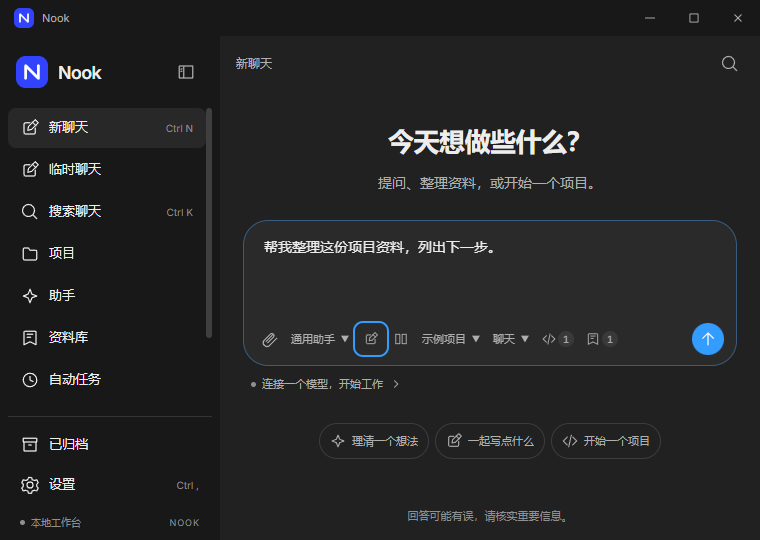
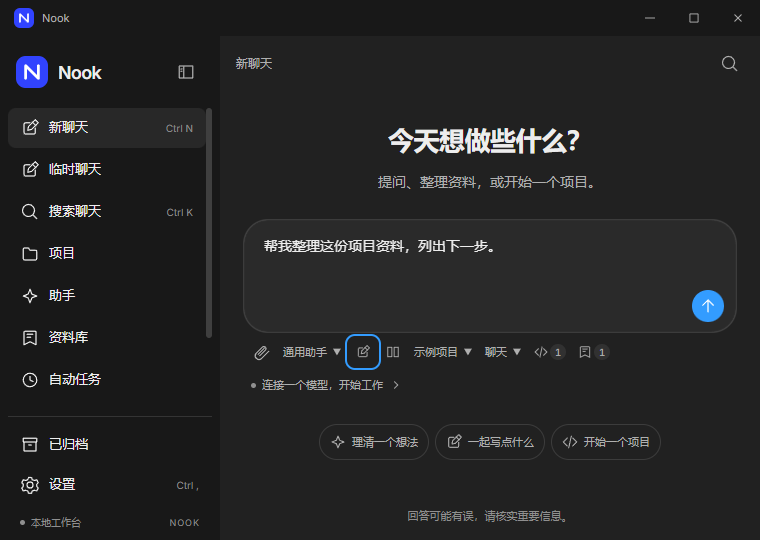
feat(ui): 完成单行胶囊输入与自适应展开

diff --git a/workbench/components/composer.tsx b/workbench/components/composer.tsx
@@ -37,6 +37,7 @@ export function Composer(props: Props) {
   const [prompts, setPrompts] = useState(false);
   const [importing, setImporting] = useState(false);
   const [dragging, setDragging] = useState(false);
+  const [singleLine, setSingleLine] = useState(true);
   const mounted = useRef(true);
   const importContext = useRef(props.importContext);
   importContext.current = props.importContext;
@@ -50,7 +51,13 @@ export function Composer(props: Props) {
   useLayoutEffect(() => {
     const node = textarea.current;
     if (!node) return;
-    const resize = () => { node.style.height = 'auto'; node.style.height = `${node.scrollHeight}px`; };
+    const resize = () => {
+      node.style.minHeight = '0'; node.style.height = '0';
+      const height = node.scrollHeight;
+      const style = getComputedStyle(node);
+      setSingleLine(height <= Number.parseFloat(style.lineHeight) + Number.parseFloat(style.paddingTop) + Number.parseFloat(style.paddingBottom) + 1);
+      node.style.removeProperty('min-height'); node.style.height = `${height}px`;
+    };
     resize();
     let width = node.clientWidth;
     const observer = new ResizeObserver(() => {
@@ -60,7 +67,7 @@ export function Composer(props: Props) {
     });
     observer.observe(node);
     return () => observer.disconnect();
-  }, [props.text]);
+  }, [props.text, singleLine, attachments.length]);
   async function send() {
     if (!props.text.trim() || busy || props.running) return;
     if (!provider || !props.model) { props.onConfigure(); return; }
@@ -82,11 +89,15 @@ export function Composer(props: Props) {
     finally { if (mounted.current) setImporting(false); }
   }
   return <div className="composer-wrap">
-    <div className="composer" data-composer-utility-bar-variant={props.running ? 'thread' : 'home'} data-composer-rows="stacked" data-composer-drag-active={dragging || undefined} aria-busy={importing} onDragEnter={(event) => { if (!event.dataTransfer.types.includes('Files')) return; event.preventDefault(); dragDepth.current++; setDragging(true); }} onDragOver={(event) => { if (event.dataTransfer.types.includes('Files')) { event.preventDefault(); event.dataTransfer.dropEffect = busy ? 'none' : 'copy'; } }} onDragLeave={(event) => { if (!event.dataTransfer.types.includes('Files')) return; if (--dragDepth.current <= 0) { dragDepth.current = 0; setDragging(false); } }} onDrop={(event) => { if (!event.dataTransfer.types.includes('Files')) return; event.preventDefault(); dragDepth.current = 0; setDragging(false); void attach([...event.dataTransfer.files]); }}>
+    <div className="composer" data-composer-utility-bar-variant={props.running ? 'thread' : 'home'} data-composer-rows={singleLine && !attachments.length ? 'single' : 'stacked'} data-composer-drag-active={dragging || undefined} aria-busy={importing} onDragEnter={(event) => { if (!event.dataTransfer.types.includes('Files')) return; event.preventDefault(); dragDepth.current++; setDragging(true); }} onDragOver={(event) => { if (event.dataTransfer.types.includes('Files')) { event.preventDefault(); event.dataTransfer.dropEffect = busy ? 'none' : 'copy'; } }} onDragLeave={(event) => { if (!event.dataTransfer.types.includes('Files')) return; if (--dragDepth.current <= 0) { dragDepth.current = 0; setDragging(false); } }} onDrop={(event) => { if (!event.dataTransfer.types.includes('Files')) return; event.preventDefault(); dragDepth.current = 0; setDragging(false); void attach([...event.dataTransfer.files]); }}>
       {attachments.length > 0 && <AttachmentList files={attachments} disabled={busy} onRemove={(id) => props.onAttachments(attachments.filter((item) => item.id !== id))} />}
-      <textarea ref={textarea} aria-label="消息" placeholder={dragging ? '松开以添加附件' : '有什么想一起完成的？'} maxLength={256_000} disabled={submitting} value={props.text} onChange={(event) => props.onText(event.target.value)} onPaste={(event) => { const files = [...event.clipboardData.files].filter((file) => file.type.startsWith('image/')); if (files.length) { event.preventDefault(); void attach(files); } }} onKeyDown={(event) => {
+      <div className="composer-entry">
+      <textarea rows={1} ref={textarea} aria-label="消息" placeholder={dragging ? '松开以添加附件' : '有什么想一起完成的？'} maxLength={256_000} disabled={submitting} value={props.text} onChange={(event) => props.onText(event.target.value)} onPaste={(event) => { const files = [...event.clipboardData.files].filter((file) => file.type.startsWith('image/')); if (files.length) { event.preventDefault(); void attach(files); } }} onKeyDown={(event) => {
         if (event.key === 'Enter' && !event.shiftKey && !event.nativeEvent.isComposing && (props.enterToSend || event.ctrlKey || event.metaKey)) { event.preventDefault(); void send(); }
       }} />
+        {props.running ? <Button className="send-button" aria-label="停止生成" onClick={props.onStop}><Glyph name="stop" size={16} /></Button> : <Button className="send-button" tone="solid" aria-label="发送消息" disabled={!props.text.trim() || busy} onClick={() => { void send(); }}><Glyph name="send" size={18} /></Button>}
+      </div>
+    </div>
       <div className="composer-toolbar">
         <div className="composer-tools" onFocusCapture={(event) => { if (event.currentTarget.scrollWidth > event.currentTarget.clientWidth && event.target instanceof HTMLElement) event.target.scrollIntoView({ block: 'nearest', inline: 'nearest', behavior: 'auto' }); }}><IconButton icon="attach" label="添加附件" disabled={busy} onClick={() => { void attach(); }} />
           <Select aria-label="选择助手" disabled={submitting} value={props.assistantId} onChange={(event) => props.onAssistant(event.target.value)}><option value="">默认助手</option>{props.assistants.map((assistant) => <option key={assistant.id} value={assistant.id}>{assistant.name}</option>)}</Select>
@@ -98,9 +109,7 @@ export function Composer(props: Props) {
           {(props.servers.length > 0 || props.skills.length > 0 || props.plugins.length > 0) && <Button className="composer-extension-button composer-action" aria-label="选择工具与技能" title={`工具与技能${count ? ` · 已选 ${count}` : ''}`} disabled={props.running || submitting} onClick={() => setExtensions(true)}><Glyph name="code" size={14} /><span className="composer-tool-label">工具与技能</span>{count > 0 && <span className="composer-count">{count}</span>}</Button>}
           {(props.hasNotes || props.knowledgeCollections.length > 0) && <Button className="composer-extension-button composer-action" aria-label="选择资料集" title={`资料集${props.knowledgeCollectionIds.length ? ` · 已选 ${props.knowledgeCollectionIds.length}` : ''}`} disabled={props.running || submitting} onClick={() => setKnowledge(true)}><Glyph name="library" size={14} /><span className="composer-tool-label">资料集</span>{props.knowledgeCollectionIds.length > 0 && <span className="composer-count">{props.knowledgeCollectionIds.length}</span>}</Button>}
         </div>
-        {props.running ? <Button className="send-button" aria-label="停止生成" onClick={props.onStop}><Glyph name="stop" size={16} /></Button> : <Button className="send-button" tone="solid" aria-label="发送消息" disabled={!props.text.trim() || busy} onClick={() => { void send(); }}><Glyph name="send" size={18} /></Button>}
       </div>
-    </div>
     {importing && <p className="composer-mode-hint" role="status">正在导入附件…</p>}
     {props.temporary && <p className="composer-mode-hint" aria-label="临时聊天说明"><strong>临时聊天</strong>：内容和草稿不写入本机聊天历史或备份，关闭应用后清除。模型服务仍会收到消息；主动导出、工具和插件操作会保留各自结果。</p>}
     {attachments.some((file) => file.image) && <p className="composer-mode-hint">图片将随对话发送给所选模型，请使用支持图片输入的模型。</p>}

diff --git a/workbench/theme/surfaces.css b/workbench/theme/surfaces.css
@@ -134,14 +134,18 @@ kbd { font-family: inherit; font-size: 10px; color: var(--ds-text-tertiary); whi
 .home-content { width: min(100%, 768px); margin: auto; padding: 40px 0 96px; }
 .home h1 { font-size: 28px; font-weight: 590; letter-spacing: -.5px; line-height: 1.4; text-align: center; }
 .home-description { color: var(--ds-text-secondary); font-size: 14px; margin: 12px 0 28px; text-align: center; }
-.home .composer > textarea { min-height: 88px; }
+.home .composer-entry > textarea { min-height: 88px; }
 .composer-wrap { width: 100%; container: composer / inline-size; }
 .composer { padding: 14px 12px 10px; border-radius: var(--composer-radius); background: color-mix(in srgb, var(--ds-bg) 90%, transparent); box-shadow: var(--elevation-composer); backdrop-filter: blur(16px); }
 [data-theme="dark"] .composer { background: color-mix(in srgb, var(--ds-bg-elevated) 60%, var(--ds-bg)); box-shadow: var(--elevation-composer-dark), 0 0 0 1px var(--ds-border); }
 .composer:focus-within { box-shadow: 0 0 0 1px color-mix(in srgb, var(--ds-accent) 35%, var(--ds-border)), 0 2px 8px #0000000a; }
-.composer > textarea { display: block; width: 100%; border: 0; background: transparent; font-size: 14px; line-height: 24px; padding: 0 8px 12px; min-height: 48px; max-height: 200px; resize: none; outline: none; }
-.composer > textarea::placeholder { color: var(--ds-text); opacity: .5; }
-.composer-toolbar { display: flex; justify-content: space-between; align-items: center; gap: 8px; }
+.composer-entry { display: flex; align-items: flex-end; gap: 8px; min-width: 0; }
+.composer-entry > textarea { display: block; flex: 1; min-width: 0; width: 100%; border: 0; background: transparent; font-size: 14px; line-height: 24px; padding: 0 8px 12px; min-height: 48px; max-height: 200px; resize: none; outline: none; }
+.composer-entry > textarea::placeholder { color: var(--ds-text); opacity: .5; }
+.chat-page .composer[data-composer-rows="single"] { border-radius: 9999px; padding: 10px 12px; }
+.chat-page .composer[data-composer-rows="single"] .composer-entry { align-items: center; }
+.chat-page .composer[data-composer-rows="single"] textarea { min-height: 24px; padding: 0 8px; }
+.composer-toolbar { display: flex; align-items: center; gap: 8px; padding: 6px 4px 0; }
 .composer-tools { display: flex; align-items: center; gap: 2px; min-width: 0; color: var(--ds-text-secondary); }
 .composer-tools .select, .model-selectors .select { width: auto; min-height: 24px; max-width: 160px; border-color: transparent; background: transparent; font-size: 11px; padding: 2px 4px; }
 .composer-tools .select:hover, .model-selectors .select:hover { background: var(--ghost-hover); }
@@ -562,7 +566,7 @@ kbd { font-family: inherit; font-size: 10px; color: var(--ds-text-tertiary); whi
   .chat-page .message-navigation { top: 8px; bottom: 8px; }
   .chat-page .composer-dock { padding: 4px 12px 8px; }
   .chat-page .composer { padding: 8px 8px 6px; }
-  .chat-page .composer > textarea { min-height: 32px; max-height: 48px; padding: 0 4px 4px; }
+  .chat-page .composer-entry > textarea { min-height: 32px; max-height: 48px; padding: 0 4px 4px; }
   .chat-page .composer > .attachments { margin: 0 0 4px; max-height: 60px; overflow-y: auto; }
   .chat-page .composer .attachment { min-width: 0; max-width: 100%; }
   .chat-page .composer .attachment-preview-button, .chat-page .composer .attachment-preview-button > span { min-width: 0; }

diff --git a/docs/DESIGN-ALIGNMENT.md b/docs/DESIGN-ALIGNMENT.md
@@ -5,7 +5,7 @@
 | 参考 | 当前实现 | 尚需完成 |
 | --- | --- | --- |
 | `DESIGN.md`、`tokens.css`：中性灰、蓝色强调、明暗主题 | `workbench/theme/reference-tokens.css` 与 `surfaces.css` | 逐页核对语义色，清理局部硬编码 |
-| 首页：大输入框和工具栏 | 居中标题、输入框、任务建议；辅助操作在输入区不足 600px 时使用带提示的图标，保留已选数量 | 单行胶囊变体、更多复杂配置的输入区空间分配 |
+| 首页：大输入框和工具栏 | 首页保留大输入区；已有对话单行无附件时采用胶囊，换行或附件自动展开；工具栏在输入框下方，窄输入区使用带提示和数量的图标 | 更多复杂配置的输入区空间分配 |
 | 侧栏：240–280px、40px 导航行 | 默认 264px、40px 导航行；低于 640px 的内容视口采用 64px 紧凑导航，保留操作提示和可滚动聊天列表 | 紧凑导航属于窄屏适配，不能称为参考侧栏的逐像素复制 |
 | `控件完整规范.txt`：输入、选择、菜单、开关 | 共享控件与参考尺寸；选择器使用可样式化的原生弹层，采用参考圆角、选项字号、留白和选中标记 | 仍需对更多内容长度、弹出方向及各页面控件组合核对 |
 | `组件规范.txt`：对话框、设置、消息和项目面板 | 设置采用 720×460 弹窗、固定分类导航和独立内容滚动；项目切换移到顶部，文件树与编辑器组成工作区 | 其他对话框、消息和输入区仍需分别核对 |
@@ -31,4 +31,6 @@
 
 紧凑侧栏在 125%／150% 缩放时为聊天与编辑器释放宽度，恢复宽窗口后自动显示完整导航。首次验证发现聊天列表可能被底部导航遮挡，现通过保留列表最小滚动高度修复；模型比较中的实际聊天切换与临时聊天回归已重新通过。
 
-输入框现在会在实际宽度变化时重新计算草稿高度。真实窗口从 1280px 缩至 760px 再恢复，验证自动换行、草稿和键盘焦点保留；长草稿在 200px 上限内滚动，替换为短文本后收回。设置专项四项验证通过；这项修复仍不等于单行胶囊变体已经完成。
+输入框会在实际宽度变化时重新计算草稿高度。真实窗口从 1280px 缩至 760px 再恢复，验证自动换行、草稿和键盘焦点保留；长草稿在 200px 上限内滚动，替换为短文本后收回。单行无附件的对话输入采用胶囊；显式换行、窗口变窄引起的换行或添加附件会展开，恢复单行后收回，过程中保持同一个文本框和焦点。工具栏放在输入框下方，发送按钮位于输入区右侧。
+
+这批源码构建通过设置 4 项、临时聊天 6 项和模型比较 6 项回归，并查看浅色、深色、760×540 与 150% 缩放实际窗口截图；模板、工具和资料集的组合操作也已验证。截图：[单行胶囊](images/composer-capsule.png)、[深色 150% 缩放](images/composer-capsule-zoomed.png)。此前的完整 215 项记录不包含这批布局变化，最终完整回归和分发验证仍需重跑。

diff --git a/docs/RELEASE.md b/docs/RELEASE.md
@@ -10,6 +10,7 @@
 - 重做首页和 README，调整设置弹窗、下拉菜单、项目工作区、输入栏和窄窗口导航。实际截图与差异见 [设计对照](DESIGN-ALIGNMENT.md)。
 - 品牌改造阶段全量单元测试通过 750 项；后续界面构建及设置、项目、临时聊天、模型比较专项验证通过。
 - 输入高度修复后，当前源码完整 Electron 回归通过 215 项并正常退出，设置专项通过 4 项。首次全量运行发现六份验证脚本仍等待旧首页标题，统一更新当前标题后重跑通过；没有移除功能断言。记录见 `verification/electron-result.json` 与 `verification/surfaces-result.json`，这些仍是源码运行证据。
+- 此后补充单行胶囊、附件／换行展开及外置工具栏；设置、临时聊天和模型比较共 16 项专项通过，实际明暗和缩放截图已核对。这批布局改动不在此前 215 项完整记录内，需要重新完整验证。
 - 首批 Nook 分发包通过身份／法律文件审计、设置、托盘、启动器组件和实际便携运行检查。**这批分发包不包含后续全部 UI 修改，不能当作最终产物。**
 
 ## 仍需完成

diff --git a/CHANGELOG.md b/CHANGELOG.md
@@ -27,6 +27,7 @@
 
 ### 修复与完善
 
+- 对话输入框在单行且无附件时使用胶囊布局；换行或添加附件后自动展开，恢复单行后收回。工具栏放在输入框下方，发送按钮位于输入区右侧，首页保留大输入区。
 - 输入框在窗口宽度变化后重新计算自动换行高度，保留草稿和焦点；长文本保持高度上限和内部滚动，替换为短文本后收回。
 - 首页和项目说明精简为任务入口与使用指南；设置采用 720×460 布局，分类和详情独立滚动，原生下拉菜单统一明暗样式与键盘操作。
 - 项目切换移至顶部，为编辑器释放宽度；窄输入区使用带提示和数量的图标操作。极窄视口采用紧凑导航，修复聊天列表被底部操作区遮挡的问题。
